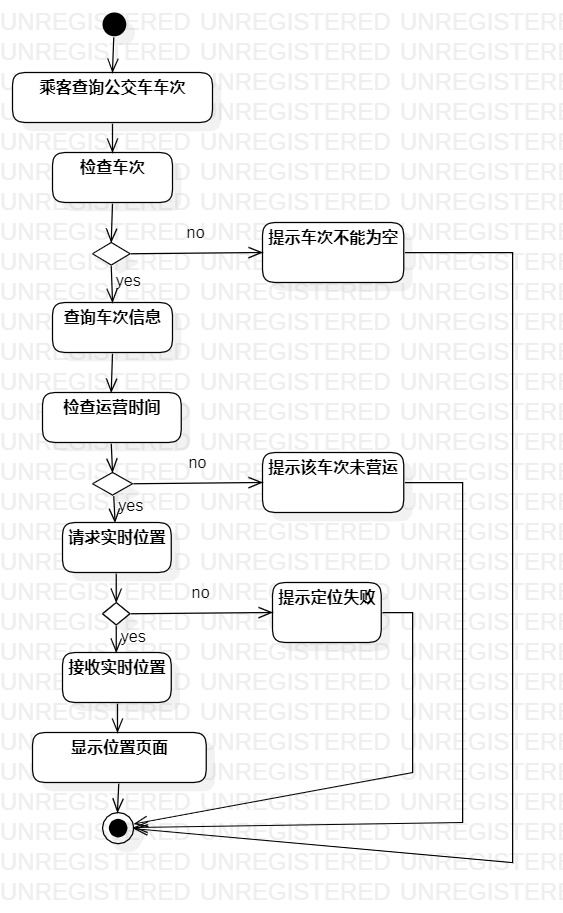
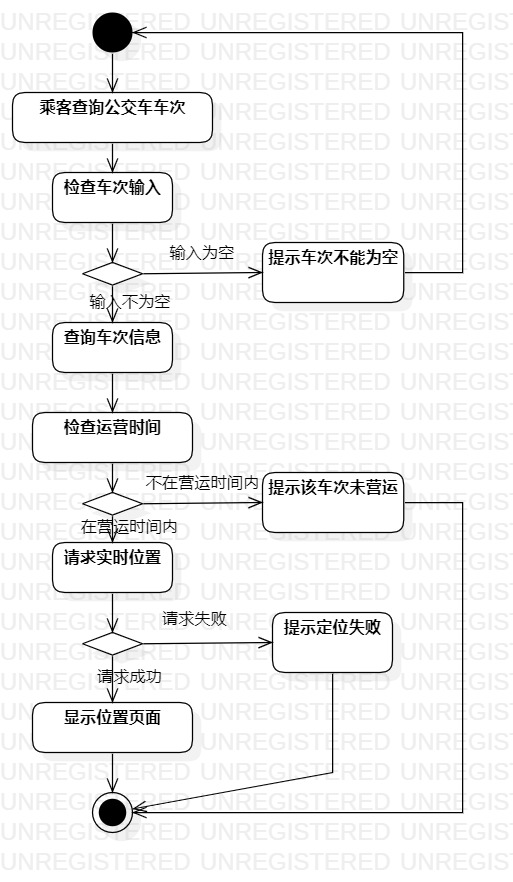
修改用例规约和活动图决策路径发生条件

Changed region(s): [[0.0, 0.0, 0.9357, 0.949], [0.4366, 0.6429, 0.7797, 0.8878], [0.4055, 0.1224, 0.4366, 0.1531]]

diff --git a/students/1714080902631/lab2.md b/students/1714080902631/lab2.md
@@ -41,12 +41,14 @@
 后置条件  | 乘客进入公交车定位页面     |  
 基本流程  | 1. 乘客输入公交车车次，点击查询按钮；  | 
 ~| 2. 系统检测到车次不为空，查询车次信息；  | 
-~| 3. 系统检查车次在营运时间内，请求实时位置；  |
-~| 4. 系统接收到位置； |
-~| 5. 系统显示车次地理位置页面； |
+~| 3. 系统检查车次在营运时间内；  |
+~| 4. 系统请求实时位置；|
+~| 5. 系统接收到位置； |
+~| 6. 系统显示车次地理位置页面； |
 扩展流程  | 2.1 系统检测到车次为空，提示“车次不能为空”| 
 ~| 3.1 系统检查车次不在营运时间内，提示“该车次未营运”| 
-~| 4.1 系统接受实时位置失败，提示“定位失败”|
+~| 4.1 系统请求实时位置失败，提示“定位失败”|
+~| 5.1 系统接收实时位置失败，提示“定位失败”|
 
 
 
@@ -60,8 +62,8 @@
 基本流程  | 1. 乘客在地图上选择目的地，点击寻路按钮；  | 
 ~| 2. 系统检测定位功能打开，查询最佳路线；  | 
 ~| 3. 系统请求到实时路况|
-~| 4. 计算最佳路线；|
+~| 4. 根据路线长度和路况加权计算最佳路线；|
 ~| 5. 系统显示最佳路线页面；  |   
 扩展流程  | 2.1 系统检查定位功能没有打开，提示“定位失败，请打开定位功能”| 
-~| 3.1 系统请求路况失败，根据路线长短计算最佳路线|
+~| 3.1 系统请求路况失败，根据路线长度计算最佳路线|
 
